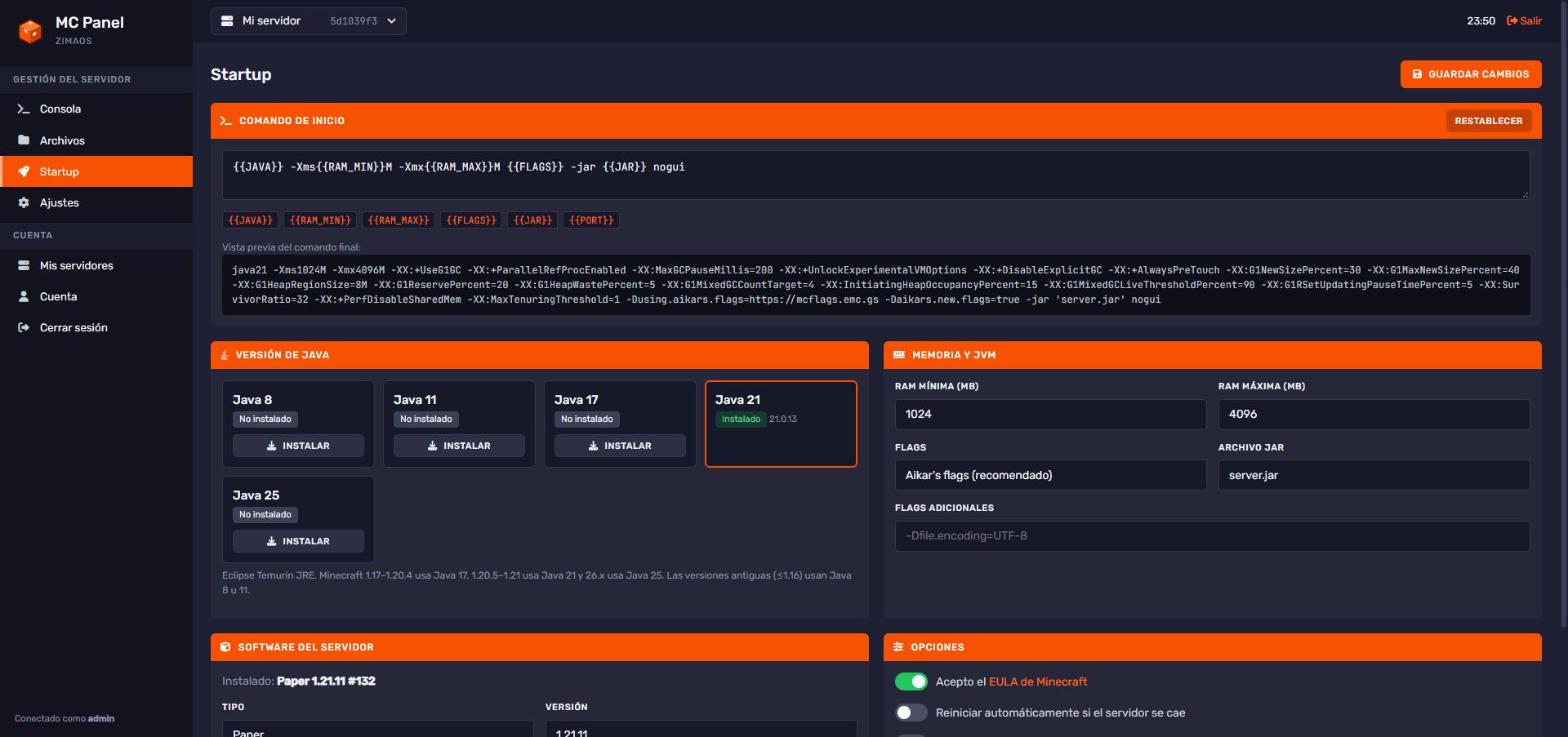
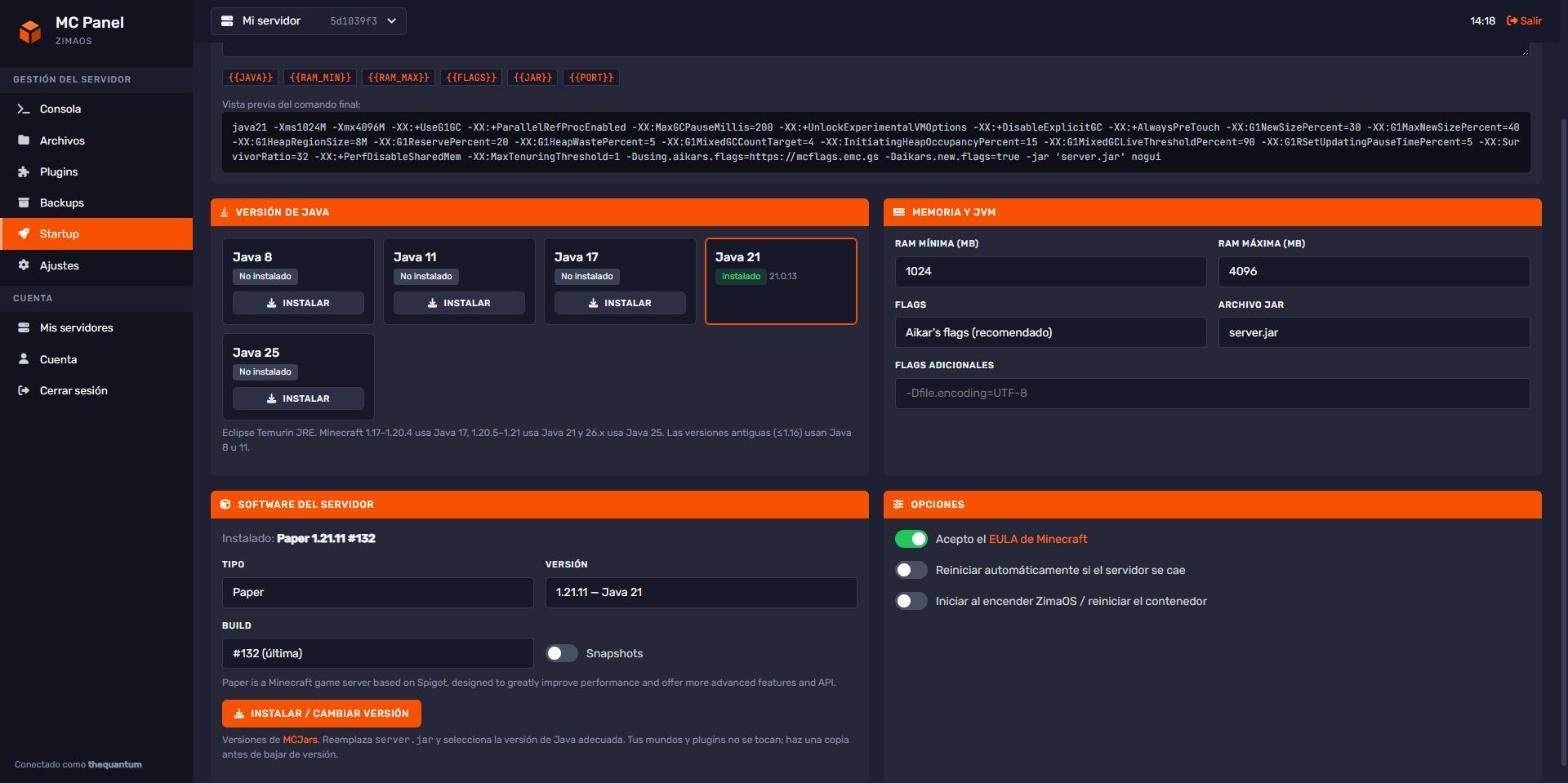
Capturas de Plugins, Backups y del nuevo Startup
Agrega al README las capturas de Explorar e Instalados (Modrinth), el selector de versiones, la página de Backups y el Startup con las versiones de MCJars.

diff --git a/README.md b/README.md
@@ -41,7 +41,11 @@ La imagen recomendada es `php:8.5-cli`, la rama estable más nueva y con soporte
 | ![Servidores](docs/screenshots/servidores.jpg) | ![playit.gg](docs/screenshots/playit.jpg) |
 | **Gestor de archivos** | **Editor** |
 | ![Archivos](docs/screenshots/archivos.jpg) | ![Editor](docs/screenshots/editor.jpg) |
-| **Startup** | |
+| **Plugins y mods (Modrinth)** | **Elegir versión e instalar con dependencias** |
+| ![Plugins](docs/screenshots/plugins.jpg) | ![Versiones de un plugin](docs/screenshots/plugins-versiones.jpg) |
+| **Plugins instalados** | **Backups** |
+| ![Plugins instalados](docs/screenshots/plugins-instalados.jpg) | ![Backups](docs/screenshots/backups.jpg) |
+| **Startup: Java y versiones de MCJars** | |
 | ![Startup](docs/screenshots/startup.jpg) | |
 
 ## Instalación en ZimaOS / CasaOS
